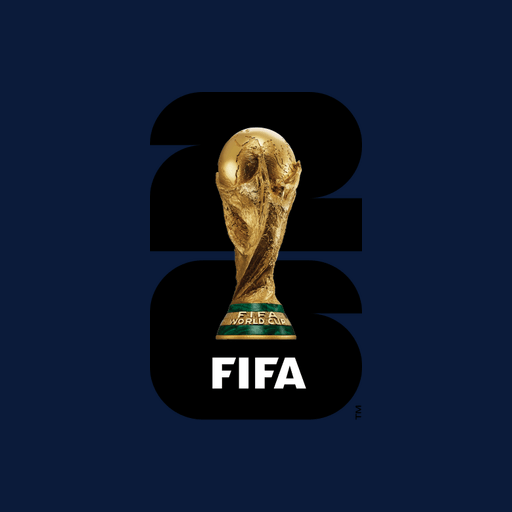
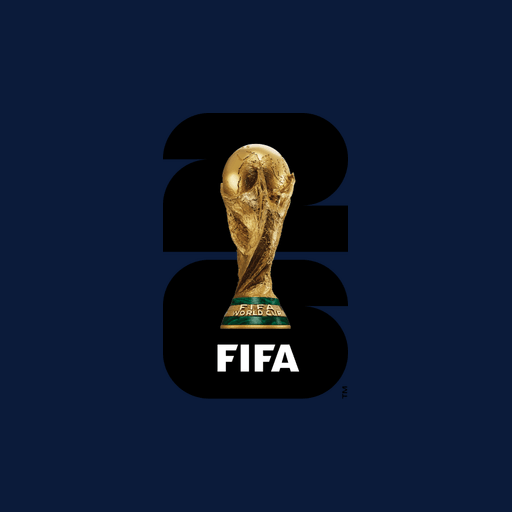
feat(v1.6.0): se\u00e7\u00e3o Instalar aplicativo no modal de primeiro acesso

Changed region(s): [[0.2812, 0.1562, 0.7188, 0.8438], [0.625, 0.5, 0.6562, 0.5312], [0.3438, 0.5, 0.375, 0.5312]]

diff --git a/src/components/FirstAccessModal.tsx b/src/components/FirstAccessModal.tsx
@@ -2,6 +2,8 @@ import React, { useEffect, useRef } from 'react';
 import { Icon } from './Icon';
 import { icons } from '../utils/icons';
 import { HowToUseHeader, HowToUseSteps } from './HowToUseSteps';
+import { useInstallPWA } from '../hooks/useInstallPWA';
+import { useToast } from './Toast';
 
 // ---------------------------------------------------------------------------
 // Modal de boas-vindas / primeiro acesso.
@@ -20,6 +22,29 @@ interface FirstAccessModalProps {
 export function FirstAccessModal({ open, onClose }: FirstAccessModalProps) {
   const primaryBtnRef = useRef<HTMLButtonElement>(null);
   const previousFocusRef = useRef<HTMLElement | null>(null);
+
+  // Integração com o PWA — botão de instalação aparece se o navegador suportar
+  // o prompt nativo (beforeinstallprompt). O modal NÃO fecha sozinho ao
+  // instalar; o feedback é dado por toast.
+  const { canInstall, isInstalled, installApp } = useInstallPWA();
+  const toast = useToast();
+
+  const handleInstall = async () => {
+    const outcome = await installApp();
+    if (outcome === 'accepted') {
+      toast.show({
+        variant: 'success',
+        title: 'Aplicativo instalado!',
+        description: 'O simulador foi adicionado à sua tela inicial.',
+      });
+    } else if (outcome === 'dismissed') {
+      toast.show({
+        variant: 'info',
+        title: 'Instalação cancelada',
+        description: 'Você pode instalar a qualquer momento depois.',
+      });
+    }
+  };
 
   // Trava o scroll do fundo enquanto o modal está aberto.
   useEffect(() => {
@@ -109,6 +134,71 @@ export function FirstAccessModal({ open, onClose }: FirstAccessModalProps) {
           <HowToUseHeader />
         </div>
         <HowToUseSteps />
+
+        {/* === NOVA SEÇÃO: INSTALAR APLICATIVO === */}
+        <section className="mt-5 pt-4 border-t border-slate-200/60 dark:border-slate-800/60">
+          <header className="flex items-center gap-2 mb-2">
+            <Icon icon={icons.install} className="text-2xl text-brand-500" />
+            <div>
+              <h3 className="font-display tracking-wider text-xl leading-none">
+                Instalar aplicativo
+              </h3>
+              <p className="text-[11px] text-slate-500 dark:text-slate-400 mt-0.5">
+                Acesse mais rápido, como se fosse um app nativo.
+              </p>
+            </div>
+          </header>
+
+          <p className="text-[12.5px] text-slate-600 dark:text-slate-300 leading-snug">
+            Instale o simulador no celular para acessar mais rápido, como se fosse um aplicativo.
+          </p>
+
+          {isInstalled ? (
+            <div className="mt-2.5 rounded-lg bg-emerald-500/10 border border-emerald-500/30 p-2.5 flex items-start gap-2 text-[12px] text-emerald-700 dark:text-emerald-300">
+              <Icon icon={icons.qualified} className="mt-0.5 shrink-0" />
+              <span>Aplicativo já instalado. Tudo pronto!</span>
+            </div>
+          ) : (
+            <>
+              {canInstall && (
+                <button
+                  type="button"
+                  className="btn-primary w-full sm:w-auto mt-2.5"
+                  onClick={handleInstall}
+                >
+                  <Icon icon={icons.mobile} />
+                  Instalar no celular
+                </button>
+              )}
+
+              <ul className="mt-2.5 space-y-1.5 text-[12px] text-slate-600 dark:text-slate-300 leading-snug">
+                <li className="flex items-start gap-2">
+                  <span className="text-brand-500 mt-0.5 shrink-0 font-bold">•</span>
+                  <span>
+                    <strong>No iPhone</strong>, abra no Safari, toque em{' '}
+                    <strong>Compartilhar</strong> e escolha{' '}
+                    <strong>"Adicionar à Tela de Início"</strong>.
+                  </span>
+                </li>
+                <li className="flex items-start gap-2">
+                  <span className="text-brand-500 mt-0.5 shrink-0 font-bold">•</span>
+                  <span>
+                    <strong>No Android</strong>, abra no Chrome, toque no menu e escolha{' '}
+                    <strong>"Instalar aplicativo"</strong> ou{' '}
+                    <strong>"Adicionar à tela inicial"</strong>.
+                  </span>
+                </li>
+                <li className="flex items-start gap-2">
+                  <span className="text-brand-500 mt-0.5 shrink-0 font-bold">•</span>
+                  <span>
+                    Se o botão de instalação aparecer dentro do site, toque em{' '}
+                    <strong>"Instalar no celular"</strong>.
+                  </span>
+                </li>
+              </ul>
+            </>
+          )}
+        </section>
 
         {/* Frase de rodapé (opcional, conforme solicitado) */}
         <p className="mt-4 pt-3 border-t border-slate-200/60 dark:border-slate-800/60 text-[11px] text-slate-500 dark:text-slate-400 flex items-center gap-1.5">

diff --git a/vite.config.ts b/vite.config.ts
@@ -12,6 +12,8 @@ import { VitePWA } from 'vite-plugin-pwa';
 //     `/<repo>/`. O workflow `.github/workflows/deploy.yml` injeta
 //     automaticamente esse valor via VITE_BASE_PATH.
 // ----------------------------------------------------------------------------
+const BASE = process.env.VITE_BASE_PATH ?? '/';
+
 export default defineConfig({
   plugins: [
     react(),
@@ -21,40 +23,51 @@ export default defineConfig({
       includeAssets: [
         'Logo_copa_2026.png',
         'pwa-192x192.png',
+        'pwa-384x384.png',
         'pwa-512x512.png',
         'apple-touch-icon.png',
+        'maskable-icon-192x192.png',
         'maskable-icon-512x512.png',
       ],
       manifest: {
-        name:        'Simulador Copa do Mundo 2026',
-        short_name:  'Copa 2026',
-        description: 'Simulador interativo da Copa do Mundo FIFA 2026',
-        lang:        'pt-BR',
+        // Identificador estável — ajuda o Chrome a detectar quando o manifest
+        // mudou e regerar o WebAPK no Android (com o ícone atualizado).
+        id:           `${BASE}?source=pwa`,
+        name:         'Simulador Copa do Mundo 2026',
+        short_name:   'Copa 2026',
+        description:  'Simulador interativo da Copa do Mundo FIFA 2026 — preencha placares, simule grupos e acompanhe o mata-mata.',
+        lang:         'pt-BR',
+        dir:          'ltr',
+        start_url:    BASE,
+        scope:        BASE,
         theme_color:      '#0b1b3a',  // wc-navy
         background_color: '#060c1a',  // wc-night
-        display:     'standalone',
-        orientation: 'portrait-primary',
+        display:      'standalone',
+        orientation:  'portrait-primary',
+        categories:   ['sports', 'games', 'entertainment'],
+        // Sinalizamos que não temos app nativo (só a versão web).
+        prefer_related_applications: false,
         // Os ícones abaixo são gerados por `npm run generate-icons`:
         // canvas QUADRADO com a logo centralizada e padding interno,
         // evitando o stretch ao instalar como app.
         icons: [
           { src: 'pwa-192x192.png',           sizes: '192x192', type: 'image/png', purpose: 'any' },
+          { src: 'pwa-384x384.png',           sizes: '384x384', type: 'image/png', purpose: 'any' },
           { src: 'pwa-512x512.png',           sizes: '512x512', type: 'image/png', purpose: 'any' },
+          { src: 'maskable-icon-192x192.png', sizes: '192x192', type: 'image/png', purpose: 'maskable' },
           { src: 'maskable-icon-512x512.png', sizes: '512x512', type: 'image/png', purpose: 'maskable' },
         ],
       },
       workbox: {
-        // Limpa caches antigos automaticamente quando há nova versão.
         cleanupOutdatedCaches: true,
         clientsClaim: true,
         skipWaiting: true,
-        // Limite generoso para os arquivos SVG das bandeiras.
         maximumFileSizeToCacheInBytes: 4 * 1024 * 1024,
       },
       devOptions: { enabled: false },
     }),
   ],
-  base: process.env.VITE_BASE_PATH ?? '/',
+  base: BASE,
   server: {
     port: 5173,
     open: true,

diff --git a/src/components/SettingsPanel.tsx b/src/components/SettingsPanel.tsx
@@ -126,6 +126,37 @@ export function SettingsPanel({ api, theme, onToggleTheme, onShowInstructions }:
             </div>
           </div>
         )}
+
+        {/* --- DICA: Play Protect no Android --- */}
+        <div className="mt-3 rounded-lg border border-amber-500/30 bg-amber-500/10 p-2.5 flex items-start gap-2 text-[11px] text-amber-900 dark:text-amber-200">
+          <Icon icon={icons.warning} className="text-amber-500 mt-0.5 shrink-0" />
+          <div className="min-w-0 leading-snug">
+            <div className="font-semibold">
+              Aviso do Google Play Protect no Android?
+            </div>
+            <p className="mt-0.5">
+              Se aparecer <em>"App de risco bloqueado"</em>, é uma checagem do sistema sobre PWAs em
+              geral — não há risco real, pois o simulador roda 100% no navegador. Toque em{' '}
+              <strong>"Instalar assim mesmo"</strong> e depois em <strong>"Entendi"</strong> para concluir.
+              Atualizar o Chrome para a versão mais recente também tende a remover esse aviso.
+            </p>
+          </div>
+        </div>
+
+        {/* --- DICA: ícone aparecendo esticado/desatualizado --- */}
+        <div className="mt-2 rounded-lg border border-brand-500/25 bg-brand-500/10 p-2.5 flex items-start gap-2 text-[11px] text-slate-700 dark:text-slate-300">
+          <Icon icon={icons.info} className="text-brand-500 mt-0.5 shrink-0" />
+          <div className="min-w-0 leading-snug">
+            <div className="font-semibold">
+              Ícone aparecendo esticado ou antigo?
+            </div>
+            <p className="mt-0.5">
+              O Android e o iOS guardam o ícone no momento da instalação. Se você instalou antes
+              de uma atualização visual, <strong>desinstale o app e instale de novo</strong> para
+              receber o ícone proporcional mais recente.
+            </p>
+          </div>
+        </div>
       </Card>
 
       {/* 3. SIMULAÇÕES RÁPIDAS */}

diff --git a/src/config/appVersion.ts b/src/config/appVersion.ts
@@ -3,7 +3,7 @@
 // Incrementar manualmente conforme grandes mudanças (semver).
 // ---------------------------------------------------------------------------
 
-export const APP_VERSION = '1.5.2';
+export const APP_VERSION = '1.6.0';
 export const APP_VERSION_LABEL = `v${APP_VERSION}`;
 export const APP_LAST_UPDATED = '2026-05-22';
 
